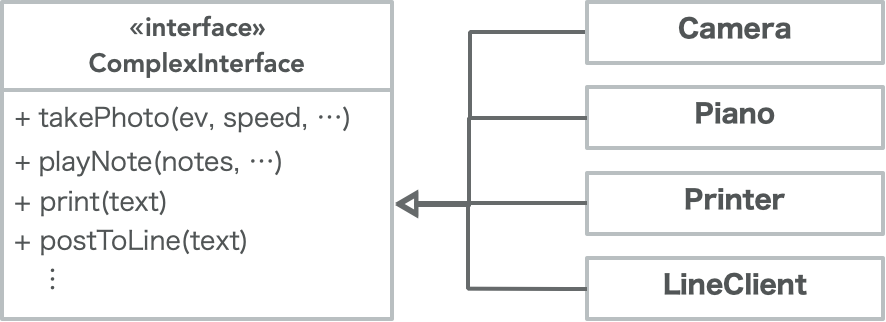
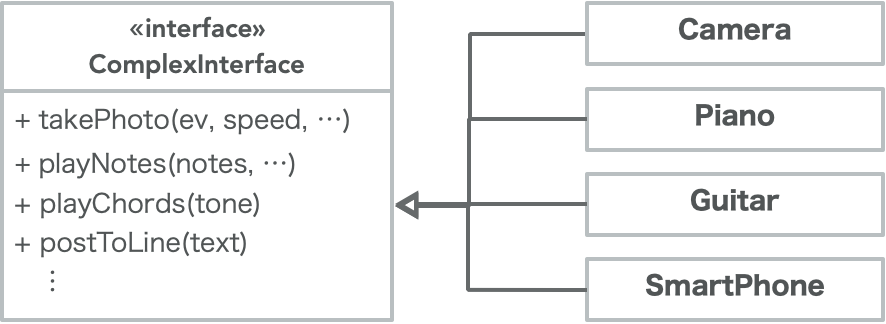
Update doc

diff --git a/02-practical/04-solid-isp.md b/02-practical/04-solid-isp.md
@@ -31,7 +31,7 @@ _Interface Segregation Principle_
 
 ---
 
-## 前提: 「インターフェース$^1$」とは
+## 前提1: 「インターフェース$^1$」 is
 
 情報の授受を行うシステム間のプロトコルまたはその接続部分の抽象的な表現
 プログラミングでは外部と内部とで適切に処理を継続するための界面の仕様
@@ -40,32 +40,29 @@ _Interface Segregation Principle_
 > * ライブラリAPI/クラスの公開メソッドや変数/ABI/UI
 > * 仕様書なども広義のインターフェース
 
-→ 複数のクラスが汎用的に満たす仕様を定義した型のこと。
+→ 複数のクラスが汎用的に満たす仕様を定義した型のこと。**継承**して使う
 * `interface`(Java, C#, TypeScript) / `protocol`(Swift) / `trait`(Rust)など
 
 >>> 1.「外来語の表記」（平成3年　内閣告示第二号）の電子・情報通信分野の用語集では「**インタフェース**」と表記
 
 <!-- ただし慣用表現としてのインターフェース・インターフェイスも禁止されていないので、ここではインターフェースと読むことにしてます。 -->
 <!-- オブジェクト指向プログラミングにおいて、複数の種類のオブジェクトを多態性によって統一的に利用するため、境界部分の汎用的な共通規格を定義したもの。
-共通規格を表す型にはクラスが使われることが多いが、
+共通規格を表す型にはクラスが使われることが多いが、その中でも
 **実際に実行されるロジックを持たず、メソッド名だけを定義したもの**
 を特にインターフェース型と呼ぶことが多い
 (C#,Swiftなど言語によってはインターフェース専用の型がある)
-C言語だとヘッダファイルが近い概念。
-
-インターフェースを継承し、それに従ったメッセージを送受信できるようにすること、もしくはあるインタフェースに従った操作をできるようにすることを、そのインタフェースを実装する (implement) という。 -->
-
+C言語だとヘッダファイルが近い概念。 -->
 
 ---
 
-## 継承には２種類ある$^1$
-
-「仕様の継承」と「実装の継承」。インターフェースの役割は「仕様の実装」
+## 前提2： 継承は「仕様の継承」と「実装の継承」の２種類がある$^1$
 
 * **仕様の継承**: 親では何をするかの仕様だけを定義し、派生側で具体的な実装を持つ
 * **実装の継承**: 親が具体的な実装を持っていて、派生側はそれを再利用する
 
 ![h:250px center](assets/04-isp-inherit.png)
+
+インターフェースの役割は「仕様の実装」
 
 >>> まつもと直伝　プログラミングのオキテ 第3回（3） | 日経クロステック（xTECH） (https://xtech.nikkei.com/it/article/COLUMN/20050915/221232/)
 
@@ -79,9 +76,12 @@ C言語だとヘッダファイルが近い概念。
 
 ## 改めてISPとは
 
+> 異なる責務のインターフェースを安易に混ぜない
 
----
+![center h:200px](assets/04-isp-complex_interface.png)
 
+* Camera/Piano/Guiter/SmartPhoneは責務が異なる
+    * SRPと同様に責務でグルーピング
 
 ---
 
@@ -92,8 +92,22 @@ C言語だとヘッダファイルが近い概念。
 * メソッドが大量に集まり始める → 肥満インターフェース
 * 複数ドメインの事情が絡み始める → 神インターフェース
 
+UIの便利な部品を作ろうとすると太りがち
+
 <!-- 原則に違反した場合の問題は、神インターフェース型が存在してしまうということ。 -->
 <!-- 洗濯機を操作していてエラーが出た時に、その原因を調べるために何百ページもあるマニュアル(目次や索引なし)を渡されたら読みこなせる？普通の操作方法から、開発の内部資料までのっているようなものを見せられて喜ぶ人がいる？ -->
+
+<!-- UIはボタン・スライダーなど入り口となるインターフェースが固定されているので、分離するタイミングを逃しづらい。その間に「こういうことができたらいいな/便利だな」が積み重なりインターフェースにAPIが増えていくことが多い。 -->
+
+---
+
+## 改善例
+
+![center h:150px](assets/04-isp-complex_interface.png)
+
+**<center>↓</center>**
+
+![center h:220px](assets/04-isp-simplified_interfaces.png)
 
 ---
 
@@ -110,8 +124,7 @@ C言語だとヘッダファイルが近い概念。
 * **設計時**：クラス設計で単一責任の原則を守り、複数の機能を詰め込まない
 * **違反の臭い**：(提供側)関係ないメソッドまで実装することを強いられている / (使用側)どのメソッドを使えばいいのか分からない
 * **リファクタリング**：インターフェースの粒度を役割ごとに分ける
- 
----
+
 <!-- 三枚舌外交
 第一次世界大戦を有利に戦うため行い、中東の火種をつくったイギリスの秘密外交
 
